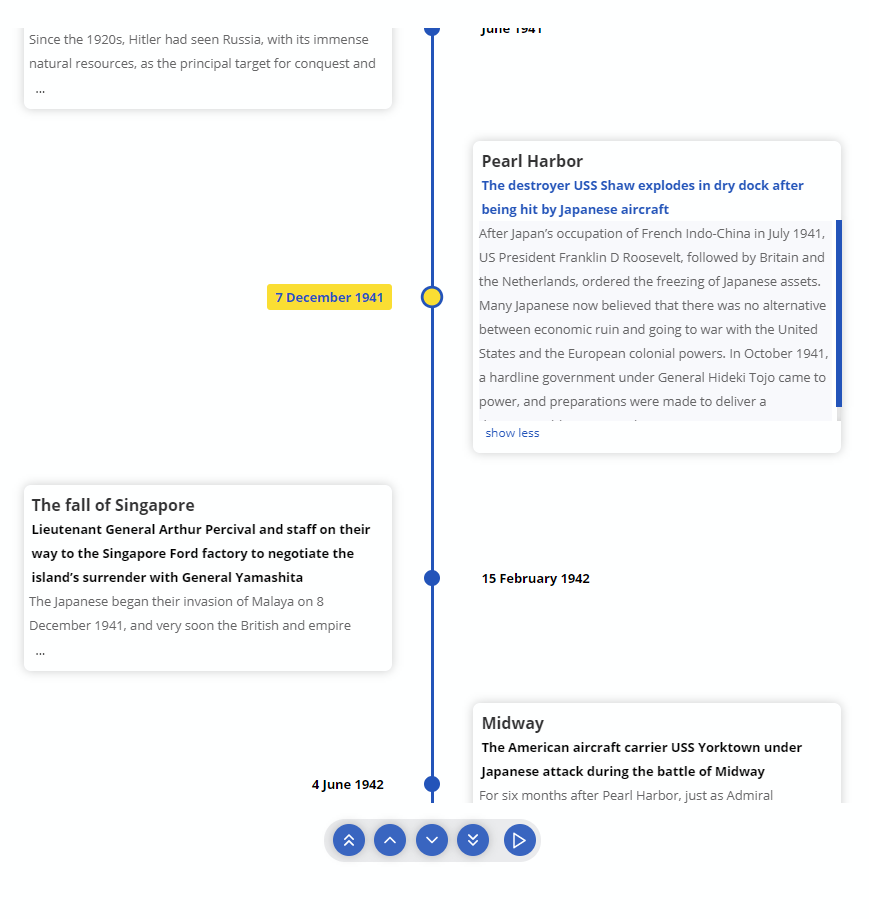
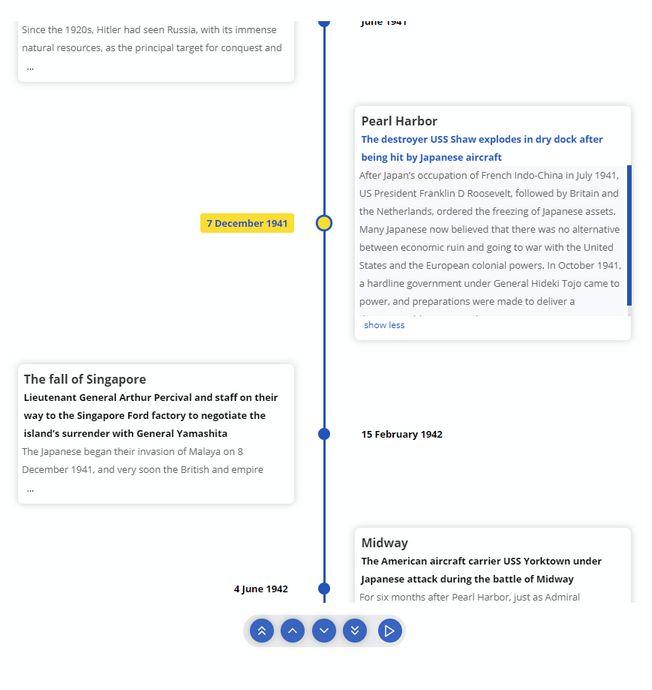
fix scrollbars in firefox

diff --git a/src/models/TimelineTreeModel.ts b/src/models/TimelineTreeModel.ts
@@ -1,18 +1,71 @@
 import { Theme } from './Theme';
 import { Scroll } from './TimelineCollnModel';
-import { Media } from './TimelineMediaModel';
 import { TimelineCardModel } from './TimelineItemModel';
+import { Media } from './TimelineMediaModel';
 import { TimelineMode } from './TimelineModel';
 
 interface CommonPropsModel {
+  /**
+   * prop that alternates the timeline card. used for tree mode.
+   *
+   * @type {boolean}
+   * @memberof CommonPropsModel
+   */
   alternateCards?: boolean;
+
+  /**
+   * configures the height of the timeline card
+   *
+   * @type {number}
+   * @memberof CommonPropsModel
+   */
   cardHeight?: number;
+
+  /**
+   * Timeline Mode (Horizontal, Vertical or Tree)
+   *
+   * @type {TimelineMode}
+   * @memberof CommonPropsModel
+   */
   mode?: TimelineMode;
+
+  /**
+   * handles the click on the timeline card
+   *
+   * @memberof CommonPropsModel
+   */
   onClick: (id?: string) => void;
-  slideItemDuration?: number;
-  slideShowRunning?: boolean;
-  theme?: Theme;
+
+  /**
+   * callback thats get called when the timer elapses for a timeline card
+   *
+   * @memberof CommonPropsModel
+   */
   onElapsed?: (id?: string) => void;
+
+  /**
+   *
+   *
+   * @type {number}
+   * @memberof CommonPropsModel
+   */
+  slideItemDuration?: number;
+
+  /**
+   * Indicates whether the slideshow is active or not
+   *
+   * @type {boolean}
+   * @memberof CommonPropsModel
+   */
+  slideShowRunning?: boolean;
+
+  /**
+   * theme
+   *
+   * @type {Theme}
+   * @memberof CommonPropsModel
+   */
+  theme?: Theme;
 }
 
 interface CommonBranchAndLeafModel extends CommonPropsModel {

diff --git a/src/components/timeline-elements/timeline-control/timeline-control.styles.ts b/src/components/timeline-elements/timeline-control/timeline-control.styles.ts
@@ -27,11 +27,13 @@ export const TimelineNavButton = styled.button<{
   cursor: pointer;
   display: flex;
   filter: drop-shadow(0 0 5px rgba(0, 0, 0, 0.25));
-  height: 2rem;
+  height: 1.75rem;
   justify-content: center;
   margin: 0 0.2rem;
   outline: 0;
-  width: 2rem;
+  width: 1.75rem;
+  padding: 0;
+  transition: all 0.2s ease-in;
 
   transform: ${(p) => {
     if (p.mode !== 'HORIZONTAL') {
@@ -39,9 +41,14 @@ export const TimelineNavButton = styled.button<{
     }
   }};
 
+  &:active {
+    filter: drop-shadow(0 0 2px rgba(0, 0, 0, 0.25));
+    transform: rotate(90deg) scale(0.85);
+  }
+
   svg {
-    width: 100%;
-    height: 100%;
+    width: 80%;
+    height: 80%;
   }
 `;
 
@@ -60,15 +67,15 @@ export const ControlButton = styled.div<{ theme?: Theme }>`
   border-radius: 50%;
   cursor: pointer;
   display: flex;
-  height: 2rem;
+  height: 1.75rem;
   justify-content: center;
   margin-left: 0.5rem;
-  width: 2rem;
+  width: 1.75rem;
 
   svg {
     color: #fff;
-    width: 60%;
-    height: 60%;
+    width: 80%;
+    height: 80%;
   }
 `;
 

diff --git a/src/demo/App.tsx b/src/demo/App.tsx
@@ -38,6 +38,7 @@ const NewDemo: React.FunctionComponent = () => {
 
   return (
     <Wrapper>
+      <h3>Timeline of World War 2</h3>
       <>
         {/* Horizontal with Media */}
         {/* {items.length > 0 && (
@@ -45,12 +46,12 @@ const NewDemo: React.FunctionComponent = () => {
         )} */}
 
         {/* Vertical with no Media */}
-        {items.length > 0 && (
+        {/* {items.length > 0 && (
             <VerticalBasic type={"big-screen"} items={items} />
-          )}
+          )} */}
 
         {/* Tree Mode */}
-        {/* {items.length > 0 && <VerticalTree type={'big-screen'} items={items} />} */}
+        {items.length > 0 && <VerticalTree type={'big-screen'} items={items} />}
 
         {/* mixed mode */}
         {/* {items.length > 0 && <VerticalTreeMixed type={"big-screen"} />} */}

diff --git a/src/components/timeline-elements/timeline-card/timeline-card.tsx b/src/components/timeline-elements/timeline-card/timeline-card.tsx
@@ -124,6 +124,7 @@ const TimelineItem: React.FunctionComponent<TimelineCardModel> = ({
       data-testid="timeline-item"
     >
       {mode === 'HORIZONTAL' && active ? showTimelineContent() : null}
+
       <TimelinePointWrapper>
         <TimelinePoint
           className={`${mode.toLowerCase()} ${active ? 'active' : 'in-active'}`}
@@ -133,6 +134,7 @@ const TimelineItem: React.FunctionComponent<TimelineCardModel> = ({
           theme={theme}
         ></TimelinePoint>
       </TimelinePointWrapper>
+
       {mode === 'HORIZONTAL' && (
         <TimelineTitleContainer
           className={`${mode.toLowerCase()} ${position}`}

diff --git a/src/demo/app-samples.tsx b/src/demo/app-samples.tsx
@@ -71,7 +71,6 @@ export const VerticalBasic: FunctionComponent<{
         mode="VERTICAL"
         slideShow
         slideItemDuration={2500}
-        hideControls
       />
     </ComponentContainerTree>
   </Vertical>
@@ -106,8 +105,8 @@ export const VerticalTree: FunctionComponent<{
         items={items}
         mode="TREE"
         slideShow
-        slideItemDuration={1350}
-        theme={{ primary: '#8675a9', secondary: '#ffd5cd' }}
+        slideItemDuration={2350}
+        // theme={{ primary: '#4a4e69', secondary: '#c9ada7' }}
       />
     </ComponentContainerTree>
   </Vertical>

diff --git a/src/demo/App.styles.ts b/src/demo/App.styles.ts
@@ -61,7 +61,7 @@ export const ComponentContainerTree = styled.div<{ type?: string }>`
       case 'desktop':
         return `height: 600px; width: 75%;`;
       case 'big-screen':
-        return `height: 650px; width: 85%;`;
+        return `height: 750px; width: 85%;`;
       case 'tablet':
         return `height: 850px; width: 100%;`;
       case 'mobile':

diff --git a/src/components/timeline-elements/timeline-card-content/timeline-card-content.styles.ts b/src/components/timeline-elements/timeline-card-content/timeline-card-content.styles.ts
@@ -82,7 +82,8 @@ export const TimelineContentDetailsWrapper = styled.div<{ theme: Theme }>`
   overflow-x: hidden;
   overflow-y: auto;
   overscroll-behavior: contain;
-  scrollbar-width: 0.35em;
+  scrollbar-color: ${(p) => p.theme.primary} default;
+  scrollbar-width: thin;
   transition: max-height 0.2s linear;
   width: 100%;
 

diff --git a/src/components/timeline-elements/timeline-item-title/timeline-card-title.styles.ts b/src/components/timeline-elements/timeline-item-title/timeline-card-title.styles.ts
@@ -6,8 +6,8 @@ export const TitleWrapper = styled.div<{ theme: Theme }>`
   font-size: 0.8rem;
   font-weight: 600;
   overflow: hidden;
-  padding: 0.25rem 0.5rem;
-  text-align: right;
+  padding: 0.25rem;
+  text-align: center;
 
   &.active {
     background: ${(p) => p.theme.secondary};

diff --git a/README.md b/README.md
@@ -1,5 +1,7 @@
 <div align="center">
   <img src="./readme-assets/social-logo-small.png" />
+  
+  <br/>
 
   [![Build Status](https://dev.azure.com/prabhummurthy/react-chrono/_apis/build/status/prabhuignoto.react-chrono?branchName=master)](https://dev.azure.com/prabhummurthy/react-chrono/_build/latest?definitionId=7&branchName=master)
   [![DeepScan grade](https://deepscan.io/api/teams/10074/projects/13644/branches/234929/badge/grade.svg)](https://deepscan.io/dashboard#view=project&tid=10074&pid=13644&bid=234929)
@@ -20,8 +22,8 @@
 
 <h2>Features</h2>
 
-- 🚥 Render timelines in three different modes ([Horizontal](#-getting-started), [Vertical](#vertical-mode), [Tree](#tree-view)).
-- 🌲&nbsp; Use the [Tree](#tree-view) mode to layout the timeline cards vertically in a tree like fashion.
+- 🚥 Render timelines in three different modes ([Horizontal](#-getting-started), [Vertical](#vertical-mode), [Tree](#tree)).
+- 🌲&nbsp; Use the [Tree](#tree) mode to layout the timeline cards vertically in a tree like fashion.
 - 📺&nbsp; Auto play the timeline with the [slideshow](#slideshow-mode) mode.
 - 🖼&nbsp; [Display Images & Videos](#media) in the timeline with ease.
 - ⌨&nbsp; [Keyboard accessible](#keyboard-navigation).
@@ -34,7 +36,7 @@
 <h2>Table of Contents</h2>
 
 - [⚡ Installation](#-installation)
-- [🚀 Getting Started](#-getting-started)
+- [Getting Started](#getting-started)
   - [Vertical Mode](#vertical-mode)
   - [Tree](#tree)
   - [Slideshow](#slideshow)
@@ -43,7 +45,6 @@
   - [Timeline item Model](#timeline-item-model)
   - [Keyboard Navigation](#keyboard-navigation)
   - [Media](#media)
-  - [Slideshow mode](#slideshow-mode)
   - [Item Width](#item-width)
   - [Theme](#theme)
 - [📦 CodeSandbox Examples](#-codesandbox-examples)
@@ -59,7 +60,7 @@
 yarn install react-chrono
 ```
 
-## 🚀 Getting Started
+## Getting Started
 
 Please make sure you wrap the component in a container that has a `width` and `height`.
 
@@ -251,7 +252,7 @@ Videos start playing automatically when active and will be automatically paused 
 }
 ```
 
-### Slideshow mode
+f### Slideshow mode
 
 Slideshow can be enabled by setting the `slideShow` prop to true. You can also set an optional `slideItemDuration` that sets the time delay between cards.
 
